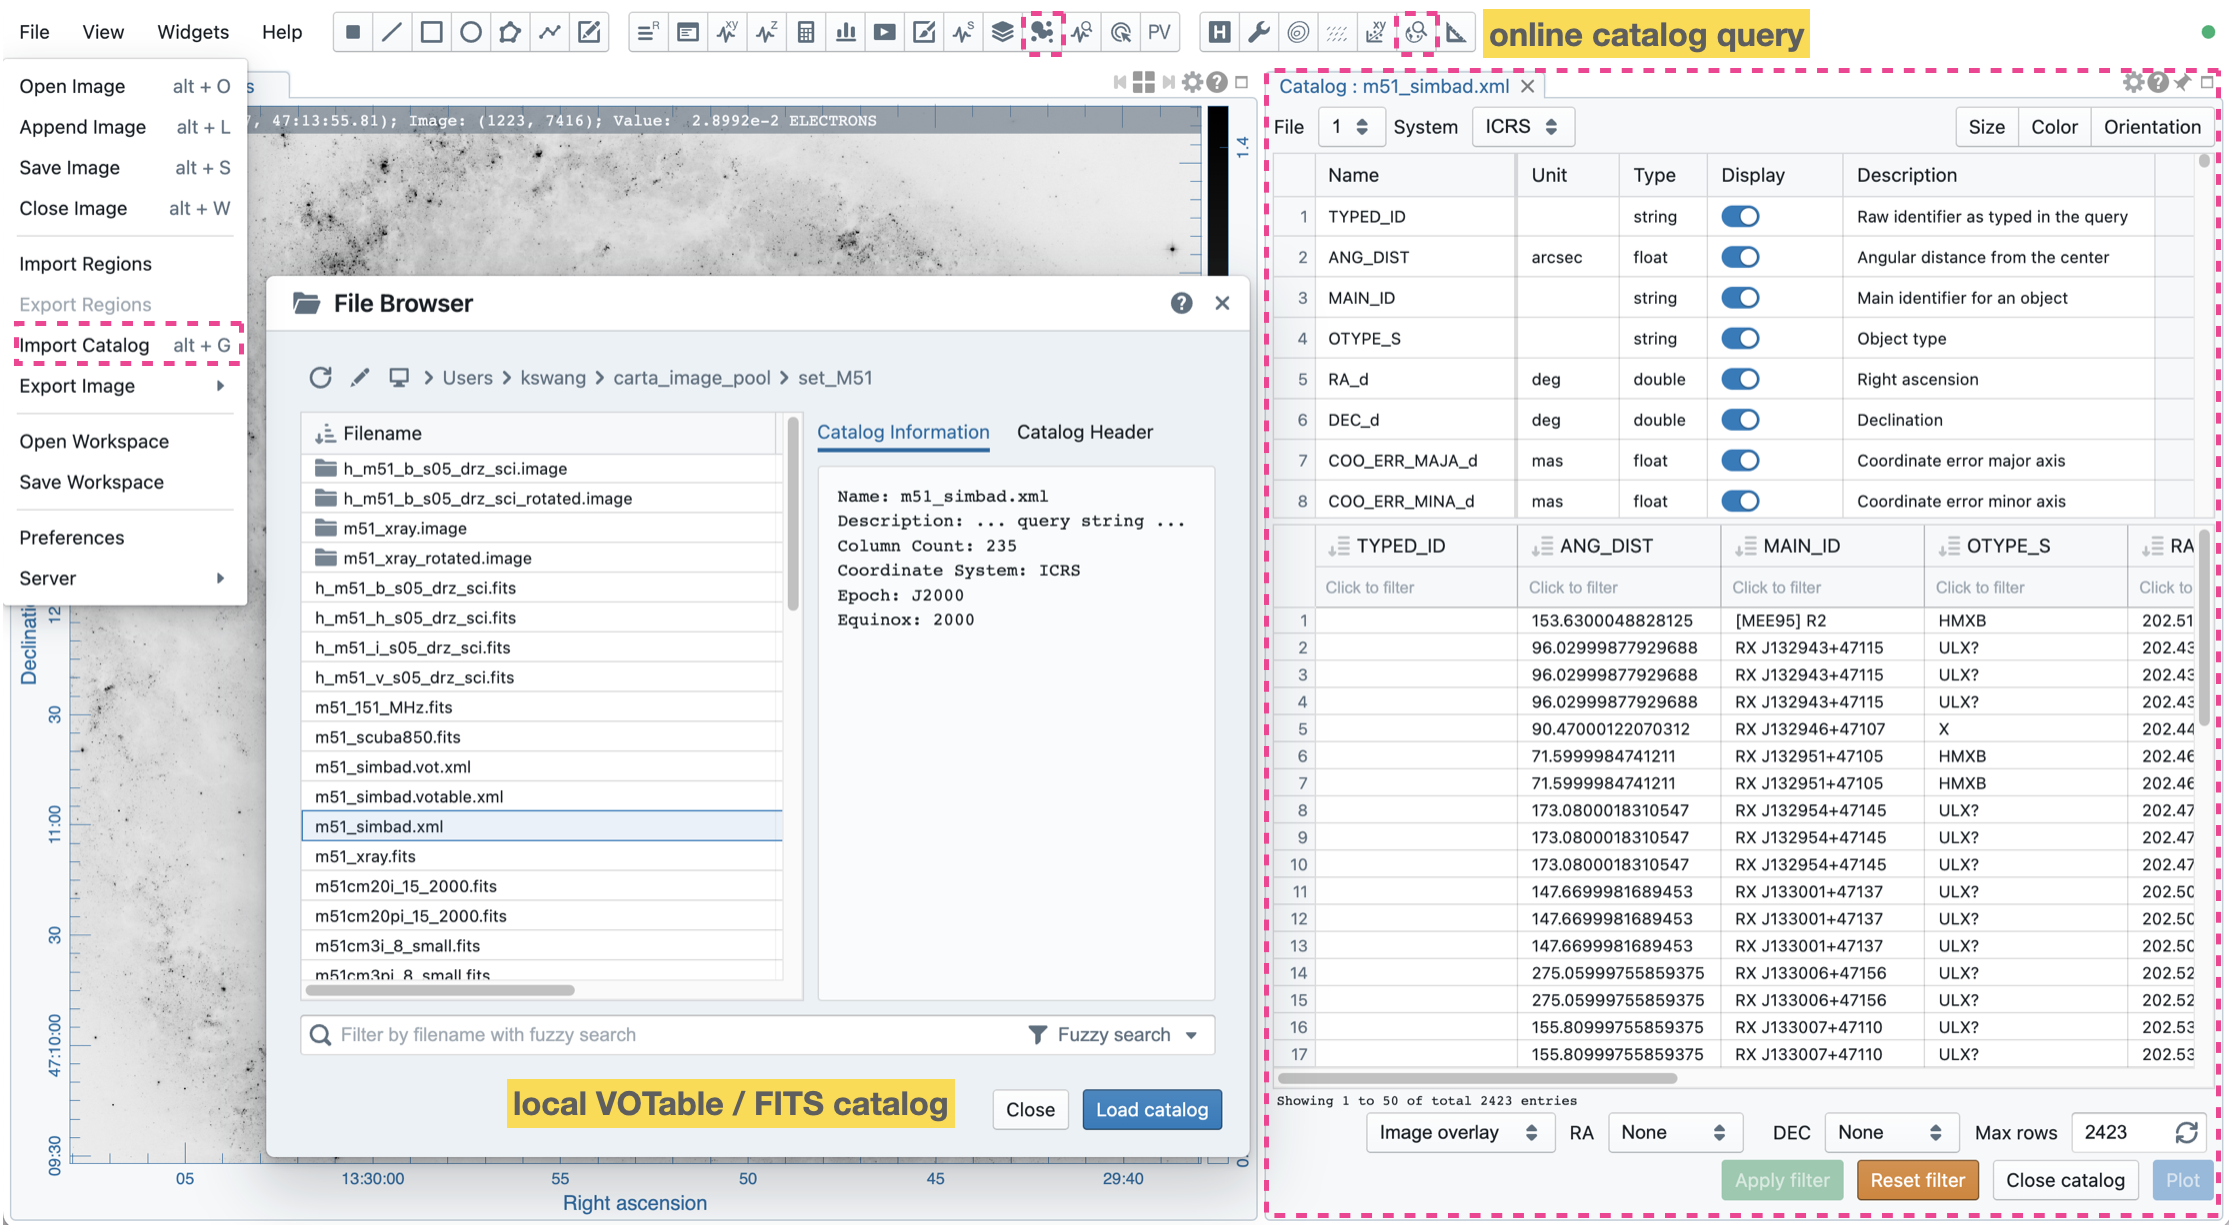
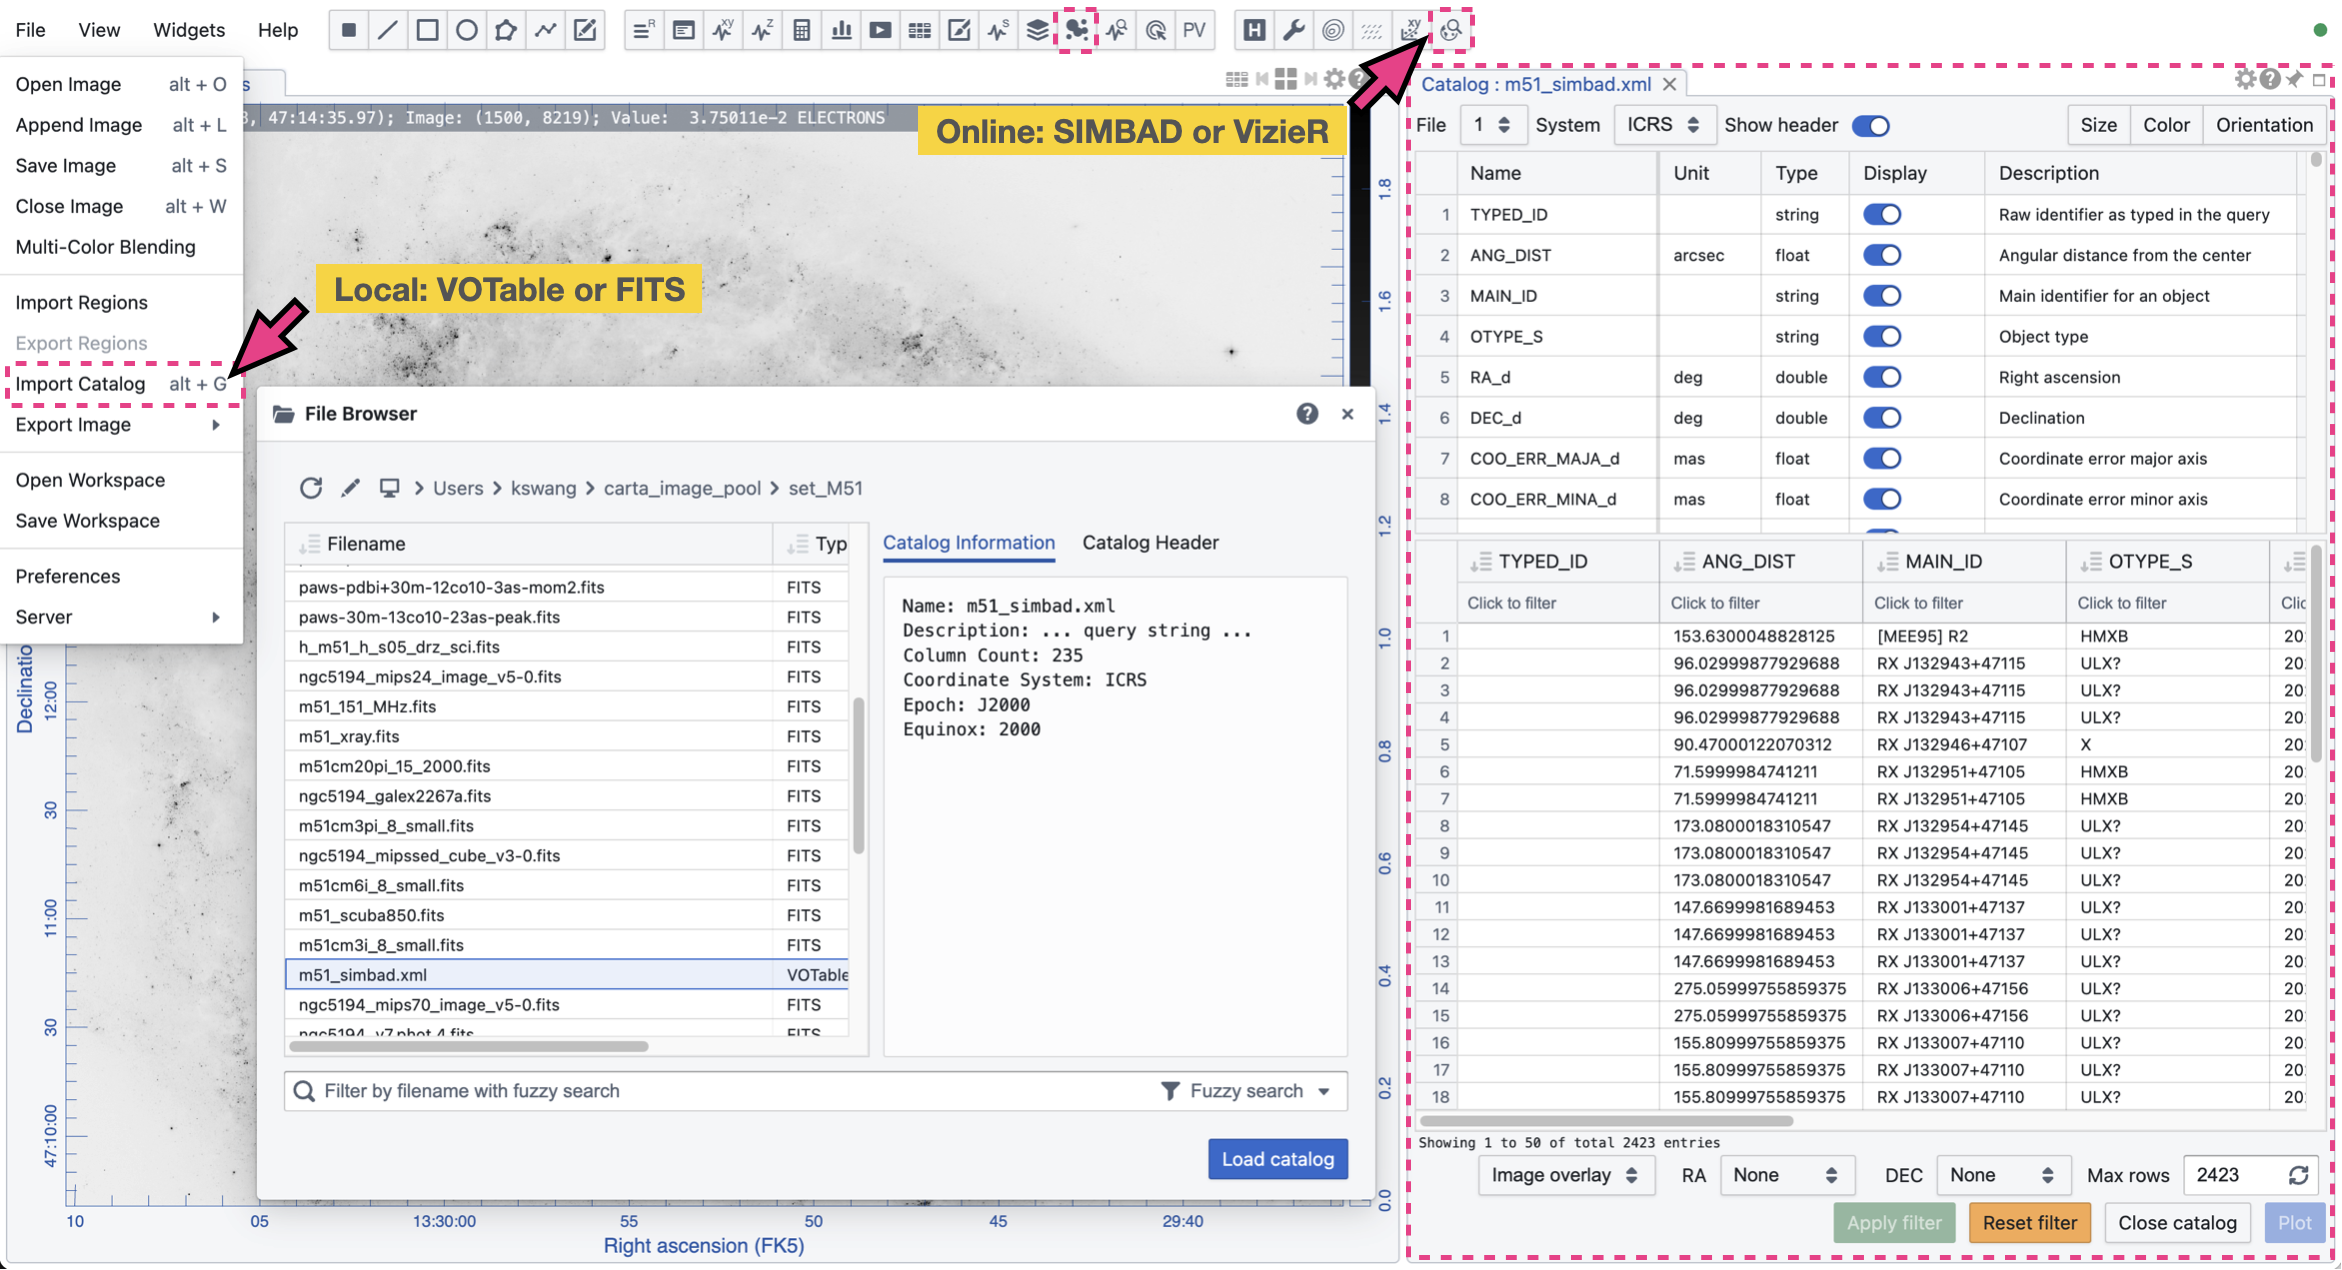
update catalog widget

Changed region(s): [[0.0, 0.0, 1.0, 1.0], [0.0, 0.7094, 0.0309, 0.7711], [0.0, 0.6169, 0.0309, 0.6786]]

diff --git a/source/catalog_widget.rst b/source/catalog_widget.rst
@@ -2,38 +2,44 @@
 
 Catalog visualization
 =====================
-Source catalog files in VOTable or FITS format can be loaded in CARTA (via "**File**" -> "**Import Catalog**") for visualization as an image overlay, a 2D scatter plot, or a histogram. Once a source catalog file is loaded, the information of each column will be shown in the upper table, while the actual catalog entries are displayed in the lower table. By default, only the first ten columns of an offline catalog file are enabled and displayed (use "**File**" -> "**Preferences**" -> "**Catalog**" to change the default number). With the upper table, you may configure it to show or hide specific columns to be displayed in the lower table. 
+Catalog widget provides an interface to visualize the context of source catalogs in CARTA. It also provides a way to visualize the source catalog data as a catalog image overlay in the Image Viewer Widget, a 2D scatter plot, and a histogram plot.   
+
+
+Supported catalog formats
+-------------------------
+
+CARTA supports local source catalog files ("**File**" -> "**Import Catalog**") in
+
+* VOTable format
+* FITS format
+
+and online catalog files from
+
+* `SIMBAD <https://simbad.u-strasbg.fr>`_
+* `VizieR <https://vizier.cds.unistra.fr>`_
+
+by querying the catalog data via the Online Data Query Dialog (see :ref:`online_data_query` for details). 
+
+
+Basic user interface
+--------------------
+Once a source catalog file is loaded, it is displayed as two tables in the Catalog Widget. The upper table shows the column information in the catalog. The actual source catalog is displayed in the lower table. You can use the "Display" toggles in the upper table to show or hide specific columns in the source catalog table. 
+
+By default, only the first ten columns of an offline catalog file are enabled and displayed (use "**File**" -> "**Preferences**" -> "**Catalog**" to change the default number). The upper table may be minimized by clicking the "Show header" toggle or by double-clicking the splitter bar between the two tables. 
+
 
 .. raw:: html
 
    <img src="_static/carta_fn_catalogue_widget.png" 
         style="width:100%;height:auto;">
 
-When the rendering type is "Image overlay", a coordinate system of the source catalog needs to be defined via the "**System**" dropdown menu. CARTA tries to obtain the coordinate system information from the header of the catalog file. If this process is unsuccessful, you must set it manually to interpret the world coordinates correctly. The source catalog defined in the image coordinate (0-based or 1-based) is also supported.
 
-Multiple catalog files can be loaded, and you may use the "**File**" dropdown menu at the top of the widget to switch catalog files. Multiple Catalog Widgets may be launched to display different catalog files. The "**Close catalog**" button at the bottom of the widget will close the selected catalog file in the "**File**" dropdown menu. If there are spatially matched images, the catalog overlay on the reference image will be shared with other images with proper coordinate transformations.
-
-
-.. raw:: html
-
-   <img src="_static/carta_fn_catalogue_matching.png" 
-        style="width:100%;height:auto;">
-
-Alternatively, you can use the Online Catalog Query Dialog from the dialog bar to search for catalogs from "SIMBAD" (http://simbad.u-strasbg.fr) or "VizieR" (https://vizier.u-strasbg.fr/viz-bin/VizieR) service and retrieve catalogs for visualization.
-
-.. raw:: html
-
-   <img src="_static/carta_fn_catalogue_onlineQuery.png" 
-        style="width:100%;height:auto;">
-
-.. raw:: html
-
-   <img src="_static/carta_fn_catalogue_onlineQuery2.png" 
-        style="width:80%;height:auto;">
+Multiple catalog files can be loaded, and you may use the "**File**" dropdown menu at the top of the widget to switch catalog files. Multiple Catalog Widgets may be launched to display different catalog files. The "**Close catalog**" button at the bottom of the widget will close the selected catalog file in the "**File**" dropdown menu. 
 
 
-Catalog filtering
--------------------
+
+Catalog filtering and sorting
+-----------------------------
 The source catalog table accepts sub-filters such as partial string match or value range. For numeric columns, supported operators are:
 
 * :code:`>` : greater than
@@ -54,14 +60,17 @@ For examples:
 
 For string columns, a partial match is adopted. For example, :code:`gal` (no quotation) will return entries containing the "gal" string.
 
-The filters will be applied by clicking the "**Apply filter**" button or pressing the "enter" or "return" key. The filtered source catalog will be displayed up to the number of entries defined in the "**Max Rows** input field. Clicking the "**Reset filter**" button removes all filters and the image overlay (if present). The plot will be reset for the histogram plot or the 2D scatter plot, and only the first (up to) 50 entries will be rendered.
+The filters will be applied by clicking the "**Apply filter**" button or pressing the "enter" or "return" key. The filtered source catalog will be displayed up to the number of entries defined in the "**Max Rows** input field. Clicking the "**Reset filter**" button removes all filters. If a catalog image overlay has been created in the Image Viewer, it will be removed. If a histogram plot or a 2D scatter plot has been created, they will be reset and only up to the first 50 entries will be rendered.
+
+By clicking on the column header, you can sort the table by that column. The sorting order is indicated by an icon next to the column name. You can click on the column header again to reverse the sorting order or click once again to switch back to the default sorting order. The sorting order is applied to the filtered source catalog. If no filter is applied, the sorting order is applied to the full source catalog.
 
 
-Catalog image overlay and settings
-----------------------------------
-CARTA supports flexible catalog image overlay rendering with variable marker size, color, and orientation. A catalog image overlay can be generated using the dropdown menus at the bottom of the Catalog Widget. When the rendering type is "image overlay", two data columns need to be identified as the world coordinates. Once configured correctly, you can click the "**Plot**" button to generate a catalog overlay on the image.
+Catalog image overlay
+---------------------
+CARTA supports flexible catalog image overlay rendering with variable marker size, color, and orientation. A catalog image overlay can be generated using the dropdown menus at the bottom of the Catalog Widget. When the rendering type is "image overlay", two data columns need to be identified as the world coordinates. Once they are configured correctly, you can click the "**Plot**" button to generate a catalog overlay on the image.
 
-A catalog is loaded and displayed in the Catalog Widget in the example below. The rendering type is "Image Overlay", and the "RA_d" and the "DEC_d" columns are identified as source world coordinates in the ICRS system. A filter is applied to the "ANG_DIST" column, resulting in 638 filtered sources. These sources are rendered on the image as cyan circles. 
+
+As an example, a catalog is loaded and displayed in the Catalog Widget in the screenshot below. The rendering type is "Image Overlay", and the "RA_d" and the "DEC_d" columns are identified as source world coordinates in the ICRS system. A filter is applied to the "ANG_DIST" column, resulting in 638 filtered sources. These sources are rendered on the image as cyan circles with a fixed size on screen. 
 
 .. raw:: html
 
@@ -69,14 +78,21 @@ A catalog is loaded and displayed in the Catalog Widget in the example below. Th
         style="width:100%;height:auto;">
 
 
-The marker's size, color, and orientation properties can be adjusted via the Catalog Settings Dialog. The shortcut buttons are available at the top-right corner of the widget. 
+Custom mode
+^^^^^^^^^^^
+By default, a catalog overlay is rendered with a fixed size in screen pixels and a fixed color on screen. This is a special case of the default "Custom" mode. In this mode, the marker size, color, and orientation can be further customized via the Catalog Settings Dialog. By assigning a data column each, you can have a variable marker size, color, and orientation, respectively. 
 
 .. raw:: html
 
-   <img src="_static/carta_fn_catalogue_widget_marker_options.png" 
+   <img src="_static/carta_fn_catalogue_widget_custom_mode.png" 
         style="width:100%;height:auto;">
 
-With the "**Size**", "**Color**", and "**Orientation**" tabs, you can create a catalog overlay with a uniform color, a uniform size, and a uniform orientation. Alternatively, each maker property can be mapped to a data column with a scaling function and clip bounds so that the marker property becomes variable. The following example uses an ellipse marker to generate the catalog overlay. Its color, size, and orientation are mapped to data columns. 
+
+The marker size, referring to the marker diameter or area, can be mapped to a data column with a scaling function and clip bounds so that the marker size becomes variable. If the selected marker has a major and a minor axis such as an ellipse, the major size and the minor size can be configured separately. 
+
+The marker color can be mapped to a data column with a scaling function and clip bounds so that the marker color becomes variable. The marker orientation can be mapped to a data column with a scaling function and clip bounds so that the marker orientation becomes variable.
+
+The following example uses an ellipse marker to generate a catalog overlay. Its color, size, and orientation are mapped to data columns. 
 
 .. raw:: html
 
@@ -84,7 +100,21 @@ With the "**Size**", "**Color**", and "**Orientation**" tabs, you can create a c
         style="width:100%;height:auto;">
 
 
-The catalog overlay and the catalog table in the Catalog Widget are interlinked. For example, when you select a source on the image, the selected source will be highlighted in the image *and* the catalog table, and vice versa. 
+Angular size mode
+^^^^^^^^^^^^^^^^^
+If it is intended to interpret the data value of a data column as an angular size or an orientation in degrees, you can select the "Angular Size" mode. In this mode, the marker size is interpreted as an angular size with a custom unit (arcsecond, arcminute, degree), and the marker orientation is interpreted as an angle in degrees. The marker color can still be mapped to a data column if it is necessary.
+
+.. raw:: html
+
+   <img src="_static/carta_fn_catalogue_widget_angular_size_mode.png" 
+        style="width:100%;height:auto;">
+
+
+
+Linked catalog overlay and catalog table
+^^^^^^^^^^^^^^^^^^^^^^^^^^^^^^^^^^^^^^^^^^^^^^
+
+The catalog overlay in the Image Viewer Widget and the catalog table in the Catalog Widget are interlinked. For example, when you select a source on the image, the selected source will be highlighted in the image *and* the catalog table, and vice versa. 
 
 .. raw:: html
 
@@ -92,11 +122,22 @@ The catalog overlay and the catalog table in the Catalog Widget are interlinked.
         style="width:100%;height:auto;">
 
 
+Catalog overlay on spatially matched images   
+^^^^^^^^^^^^^^^^^^^^^^^^^^^^^^^^^^^^^^^^^^^
 
+If there are spatially matched images, a catalog overlay on the reference image will be shared with other images with proper coordinate transformations. A prerequisite is that a coordinate system of the source catalog needs to be defined via the "**System**" dropdown menu. CARTA tries to obtain the coordinate system information from the header of the catalog file. If this process is unsuccessful, you must set it manually to interpret the world coordinates correctly. The source catalog defined in the image coordinate (0-based or 1-based) is also supported.
+
+
+.. raw:: html
+
+   <img src="_static/carta_fn_catalogue_matching.png" 
+        style="width:100%;height:auto;">
 
 
 Catalog 2D scatter plot
 -------------------------
+By selecting "2D Scatter" mode and identifying two numeric columns as the x-axis and y-axis, you can generate a 2D scatter plot of the source catalog in the Catalog 2D Scatter Plot Widget. 
+
 The Catalog 2D Scatter Plot Widget shows a 2D scatter plot of two numeric columns of a catalog file. The available numeric columns are determined by the “Display” column of the upper table in the Catalog Widget. The lower table in the Catalog Widget determines the data used for plotting the 2D scatter. The table may not show all entries due to the dynamic loading feature. Thus, the 2D scatter plot may not include all entries (after filtering). The "**Plot**" button in the Catalog 2D Scatter Plot Widget will request a full download of all entries, and the scatter plot will then include all entries (after filtering).
 
 
@@ -113,6 +154,8 @@ The "**Linear Fit**" button allow you to fit a straight line to the data points 
 
 Catalog histogram plot
 ------------------------
+By selecting "Histogram" mode and identifying one numeric column as the input data, you can generate a histogram plot of the source catalog in the Catalog Histogram Plot Widget.
+
 The Catalog Histogram Plot Widget shows a histogram of one numeric column of a catalog file. The available numeric columns are determined by the “Display” column of the upper table in the Catalog Widget. The lower table in the Catalog Widget determines the data used for plotting a histogram. The table may not show all entries due to the dynamic loading feature. Thus, the histogram plot may not include all entries (after filtering). The "**Plot**" button will request a full download of all entries, and the histogram plot will include all entries (after filtering). The number of bins and the y-axis scale can be customized with the "**Bins**" field and the "**Log scale**" toggle, respectively.
 
 
@@ -123,6 +166,7 @@ By clicking on a specific histogram bin, source entries of that bin will be high
 
    <img src="_static/carta_fn_catalogue_widget_histogram.png" 
         style="width:100%;height:auto;">
+
 
 Linked catalog visualization
 ------------------------------

diff --git a/source/online_data_query.rst b/source/online_data_query.rst
@@ -1,3 +1,5 @@
+.. _online_data_query:
+
 Online data query
 =================
 The Online Data Query Dialog provies an interface to query and retrieve astronomical catalog data and image data from remote services. Currently it supports catalog query from
